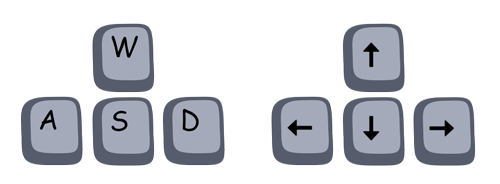
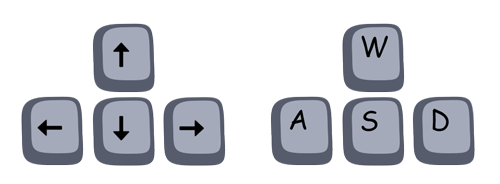
Clearer control instructions

diff --git a/webroot/index.html b/webroot/index.html
@@ -27,8 +27,11 @@
     </div>
     <div class="keys">
         <h2>Use Your Keyboard to Move Around</h2>
+        <p>
+            <i>(requires desktop device)</i>
+        </p>
         <img src="res/controls.png" />
-        <p><span>Strafe</span><span>Rotate</span></p>
+        <p><span>Rotate &amp; Move</span><span>Strafe</span></p>
         <p><a onclick="Controls.toggleKeys();return false;" href="">Click Here to Hide</a></p>
     </div>
     <div class="stats">
